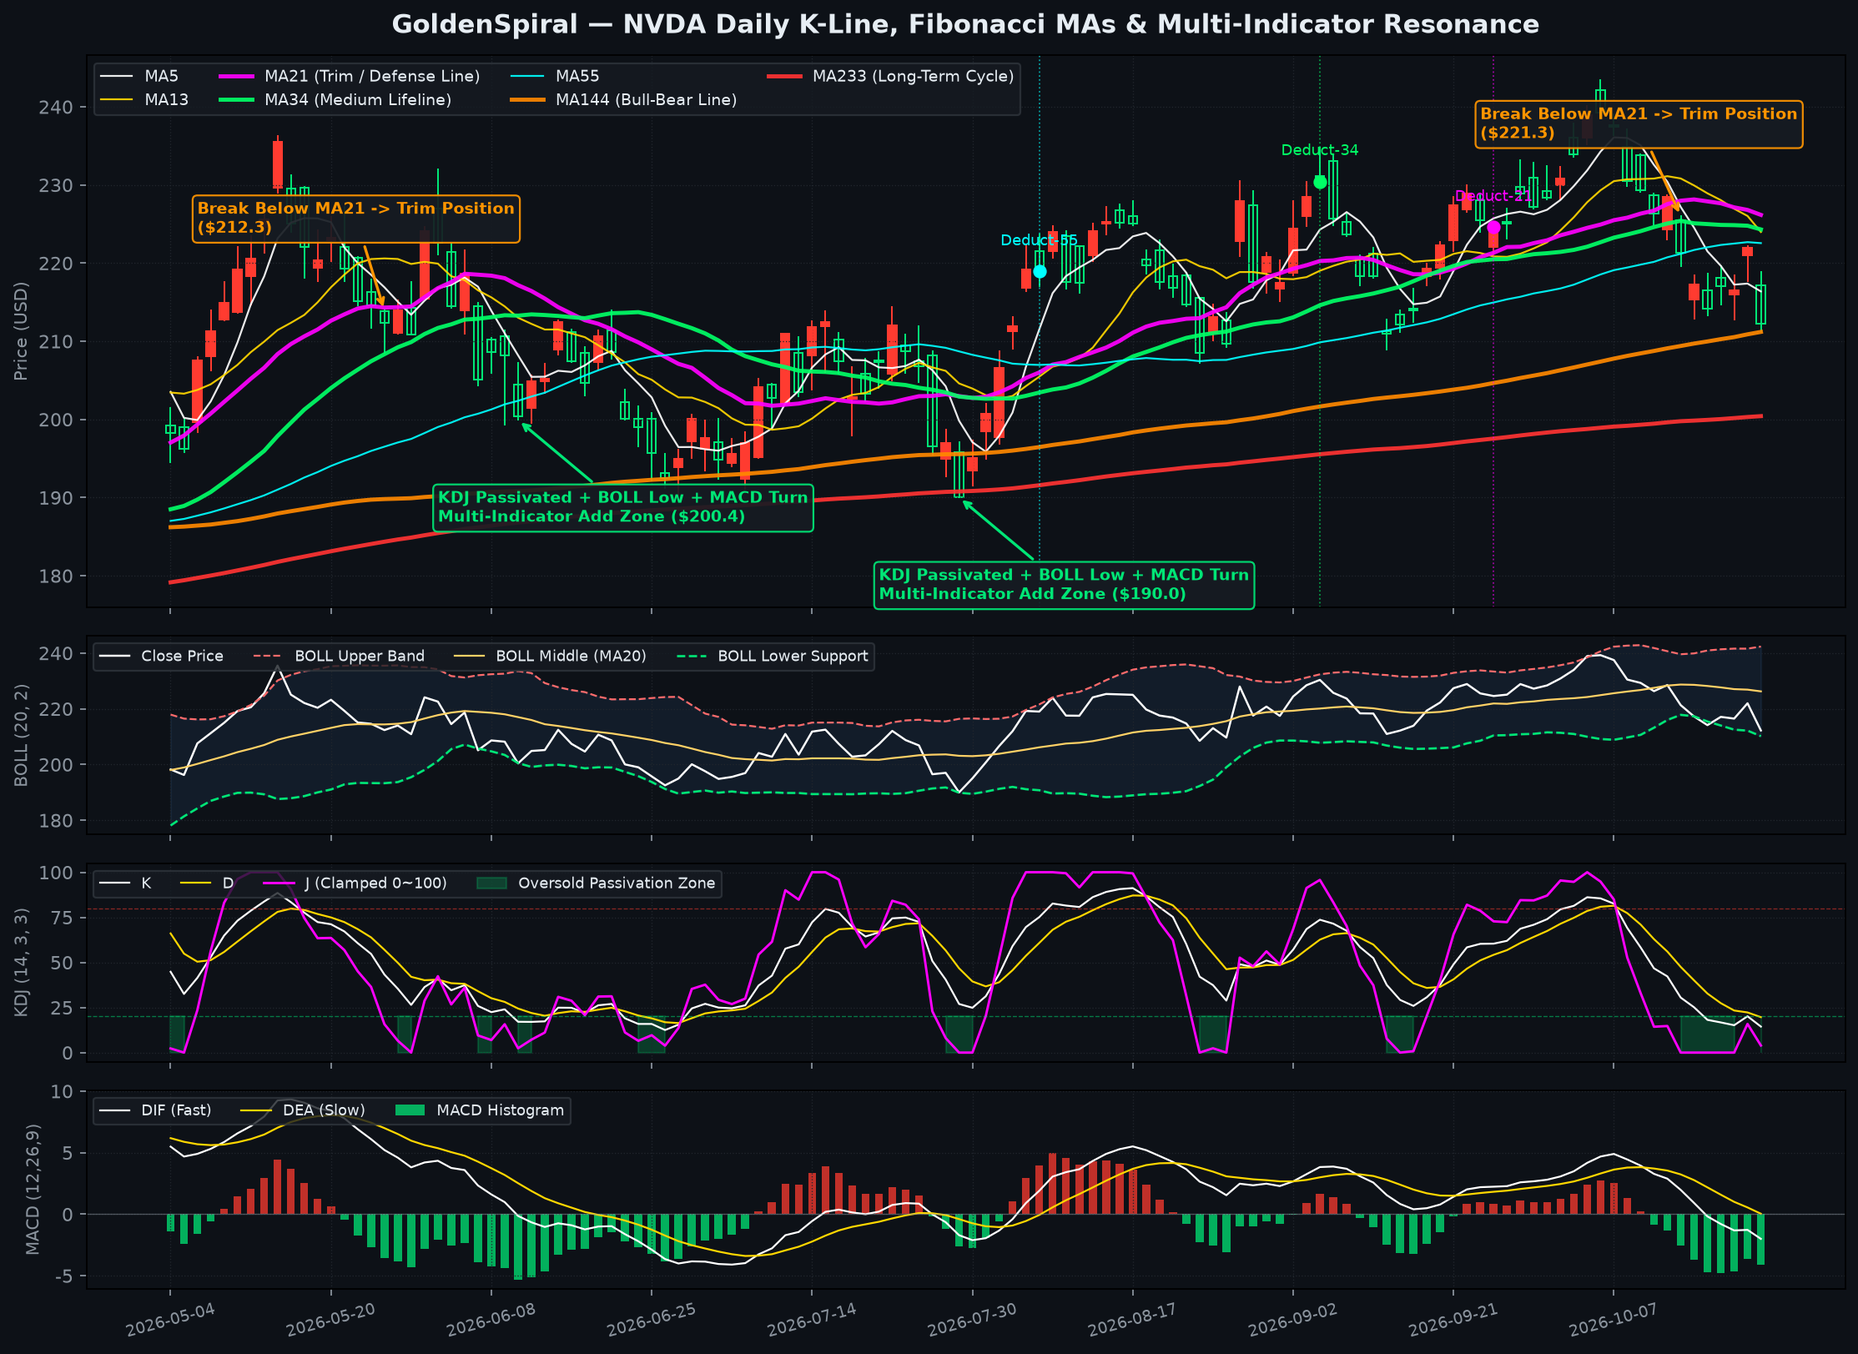
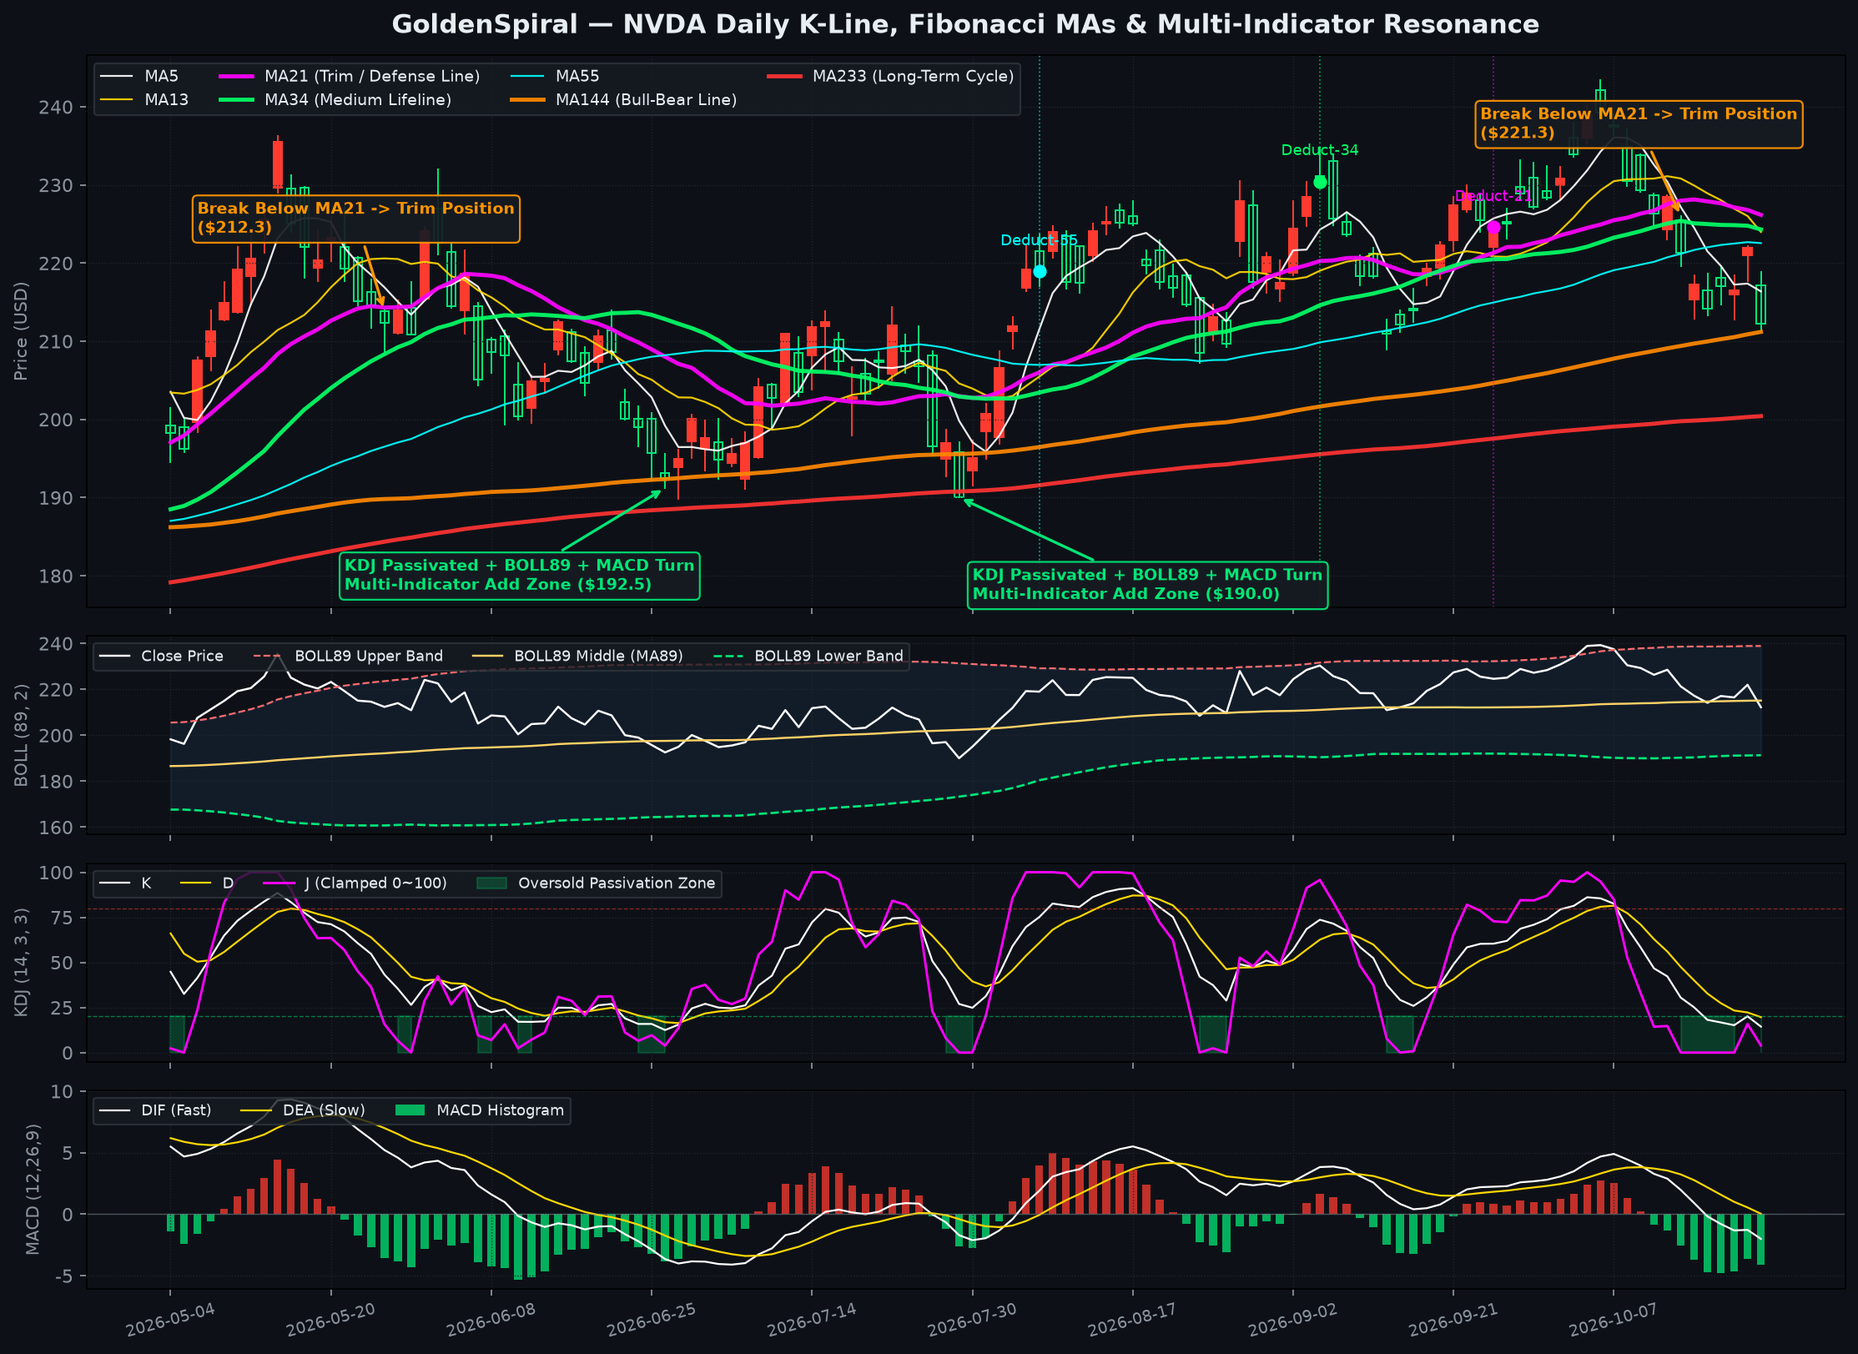
feat: switch daily Bollinger Bands to Fibonacci BOLL(89, 2) across demo, charts, and docs

diff --git a/demo.py b/demo.py
@@ -69,16 +69,16 @@ def load_stock_data(symbol="NVDA", bars=800, lang="en"):
 
 
 def compute_all_indicators(df):
-    """Compute Fibonacci MAs, BOLL(20,2), Passivated KDJ(14,3,3), and MACD(12,26,9)."""
+    """Compute Fibonacci MAs, BOLL(89,2), Passivated KDJ(14,3,3), and MACD(12,26,9)."""
     df = df.copy()
 
     # 1. Fibonacci Moving Averages
     for p in MA_PERIODS:
         df[f'MA{p}'] = df['close'].rolling(window=p, min_periods=1).mean()
 
-    # 2. Bollinger Bands (BOLL 20, 2)
-    df['BOLL_MID'] = df['close'].rolling(window=20, min_periods=1).mean()
-    boll_std = df['close'].rolling(window=20, min_periods=1).std().fillna(0)
+    # 2. Bollinger Bands (BOLL 89, 2)
+    df['BOLL_MID'] = df['close'].rolling(window=89, min_periods=1).mean()
+    boll_std = df['close'].rolling(window=89, min_periods=1).std().fillna(0)
     df['BOLL_UP'] = df['BOLL_MID'] + 2.0 * boll_std
     df['BOLL_LOW'] = df['BOLL_MID'] - 2.0 * boll_std
 
@@ -206,22 +206,23 @@ def plot_showcase_chart(df, deductions, out_path, symbol="NVDA", view_bars=120, 
                 bbox=dict(boxstyle='round,pad=0.3', facecolor='#161b22', edgecolor='#ff9500', alpha=0.92)
             )
 
-    # Dip-Add Signal Callouts (KDJ Passivated + BOLL Lower + MACD Turn)
-    dip_candidates = sub[(sub['J'] <= 5.0) & (sub['low'] <= sub['BOLL_LOW'] * 1.02) & (sub.index > 20)]
+    # Dip-Add Signal Callouts (KDJ Passivated + BOLL89 Support + MACD Turn)
+    dip_candidates = sub[(sub['J'] <= 5.0) & (sub['low'] <= sub['BOLL_MID']) & (sub.index > 30)]
     if not dip_candidates.empty:
         chosen_dips = [dip_candidates.index[0]]
         for idx_d in dip_candidates.index:
-            if idx_d - chosen_dips[-1] > 20:
+            if idx_d - chosen_dips[-1] > 18:
                 chosen_dips.append(idx_d)
-        for idx_d in chosen_dips[:2]:
+        for k_i, idx_d in enumerate(chosen_dips[:2]):
             row_d = sub.loc[idx_d]
-            text_d = (f"KDJ钝化 + 布林下轨 + MACD企稳\n多指标共振加仓 (${row_d['close']:.1f})"
+            text_d = (f"KDJ钝化 + BOLL89支撑 + MACD企稳\n多指标共振加仓 (${row_d['close']:.1f})"
                       if lang == "zh" else
-                      f"KDJ Passivated + BOLL Low + MACD Turn\nMulti-Indicator Add Zone (${row_d['close']:.1f})")
+                      f"KDJ Passivated + BOLL89 + MACD Turn\nMulti-Indicator Add Zone (${row_d['close']:.1f})")
+            x_text_pos = max(2, idx_d - 24) if k_i == 0 else min(len(sub) - 32, idx_d + 1)
             ax_main.annotate(
                 text_d,
                 xy=(idx_d, row_d['low']),
-                xytext=(min(len(sub) - 30, idx_d - 6), row_d['low'] - 13),
+                xytext=(x_text_pos, row_d['low'] - 13),
                 arrowprops=dict(facecolor='#00e676', edgecolor='#00e676', arrowstyle='->', lw=1.5),
                 fontsize=8.5, fontweight='bold', color='#00e676',
                 bbox=dict(boxstyle='round,pad=0.3', facecolor='#161b22', edgecolor='#00e676', alpha=0.92)
@@ -240,19 +241,19 @@ def plot_showcase_chart(df, deductions, out_path, symbol="NVDA", view_bars=120, 
     ax_main.grid(True, color='#21262d', linestyle=':', linewidth=0.6)
     ax_main.tick_params(colors='#8b949e', labelbottom=False)
 
-    # --- Panel 2: BOLL (Bollinger Bands 20, 2) ---
+    # --- Panel 2: BOLL (Bollinger Bands 89, 2) ---
     if lang == "zh":
         ax_boll.plot(sub.index, sub['close'], color='#FFFFFF', linewidth=1.1, label='收盘价')
-        ax_boll.plot(sub.index, sub['BOLL_UP'], color='#ff6b6b', linestyle='--', linewidth=1.0, label='布林上轨 (Upper)')
-        ax_boll.plot(sub.index, sub['BOLL_MID'], color='#ffd166', linewidth=1.0, label='布林中轨 (MA20)')
-        ax_boll.plot(sub.index, sub['BOLL_LOW'], color='#00e676', linestyle='--', linewidth=1.2, label='布林下轨支撑 (Lower)')
-        ax_boll.set_ylabel("BOLL (布林带)", color='#8b949e', fontsize=9)
+        ax_boll.plot(sub.index, sub['BOLL_UP'], color='#ff6b6b', linestyle='--', linewidth=1.0, label='BOLL89 上轨')
+        ax_boll.plot(sub.index, sub['BOLL_MID'], color='#ffd166', linewidth=1.1, label='BOLL89 中轨 (MA89)')
+        ax_boll.plot(sub.index, sub['BOLL_LOW'], color='#00e676', linestyle='--', linewidth=1.2, label='BOLL89 下轨')
+        ax_boll.set_ylabel("BOLL (89, 2)", color='#8b949e', fontsize=9)
     else:
         ax_boll.plot(sub.index, sub['close'], color='#FFFFFF', linewidth=1.1, label='Close Price')
-        ax_boll.plot(sub.index, sub['BOLL_UP'], color='#ff6b6b', linestyle='--', linewidth=1.0, label='BOLL Upper Band')
-        ax_boll.plot(sub.index, sub['BOLL_MID'], color='#ffd166', linewidth=1.0, label='BOLL Middle (MA20)')
-        ax_boll.plot(sub.index, sub['BOLL_LOW'], color='#00e676', linestyle='--', linewidth=1.2, label='BOLL Lower Support')
-        ax_boll.set_ylabel("BOLL (20, 2)", color='#8b949e', fontsize=9)
+        ax_boll.plot(sub.index, sub['BOLL_UP'], color='#ff6b6b', linestyle='--', linewidth=1.0, label='BOLL89 Upper Band')
+        ax_boll.plot(sub.index, sub['BOLL_MID'], color='#ffd166', linewidth=1.1, label='BOLL89 Middle (MA89)')
+        ax_boll.plot(sub.index, sub['BOLL_LOW'], color='#00e676', linestyle='--', linewidth=1.2, label='BOLL89 Lower Band')
+        ax_boll.set_ylabel("BOLL (89, 2)", color='#8b949e', fontsize=9)
 
     ax_boll.fill_between(sub.index, sub['BOLL_LOW'], sub['BOLL_UP'], color='#58a6ff', alpha=0.08)
     ax_boll.legend(loc='upper left', ncol=4, facecolor='#161b22', edgecolor='#30363d', labelcolor='#e6edf3', fontsize=8)
@@ -315,7 +316,7 @@ def print_report(df, deductions, symbol="NVDA", lang="en"):
         print("=" * 74)
         print(f"\n[+] 最新交易日行情 ({latest['date']}):")
         print(f"    收盘价: ${latest['close']:.2f} | MA21(减仓线): ${latest['MA21']:.2f} | MA34(生命线): ${latest['MA34']:.2f}")
-        print(f"    布林下轨: ${latest['BOLL_LOW']:.2f} | KDJ(J值): {latest['J']:.1f} | MACD柱: {latest['MACD']:.2f}")
+        print(f"    BOLL89中轨: ${latest['BOLL_MID']:.2f} | BOLL89下轨: ${latest['BOLL_LOW']:.2f} | KDJ(J值): {latest['J']:.1f} | MACD柱: {latest['MACD']:.2f}")
         print("\n[+] “向右看”抵扣价差分推演表 (ΔMA = (现价 - 抵扣价) / N):")
         print("-" * 74)
         for d in deductions:
@@ -328,7 +329,7 @@ def print_report(df, deductions, symbol="NVDA", lang="en"):
         print("=" * 78)
         print(f"\n[+] Latest Market Bar ({latest['date']}):")
         print(f"    Close: ${latest['close']:.2f} | MA21 (Trim Line): ${latest['MA21']:.2f} | MA34 (Lifeline): ${latest['MA34']:.2f}")
-        print(f"    BOLL Lower: ${latest['BOLL_LOW']:.2f} | KDJ (J): {latest['J']:.1f} | MACD Hist: {latest['MACD']:.2f}")
+        print(f"    BOLL89 Mid: ${latest['BOLL_MID']:.2f} | BOLL89 Lower: ${latest['BOLL_LOW']:.2f} | KDJ (J): {latest['J']:.1f} | MACD Hist: {latest['MACD']:.2f}")
         print("\n[+] Lookahead Differential Deduction Table (ΔMA = (Close - Deduct) / N):")
         print("-" * 78)
         for d in deductions:

diff --git a/README.md b/README.md
@@ -9,7 +9,7 @@
 # GoldenSpiral — Fibonacci MA & Multi-Indicator Resonance Demo
 
 > **Public Showcase Edition**  
-> This repository is a lightweight public showcase of the **GoldenSpiral AI Agent Skill**. It demonstrates the core **Fibonacci Moving Average Matrix**, **Lookahead Differential Deduction**, and **Multi-Indicator Resonance (`BOLL` + `KDJ` + `MACD`)** using **NVIDIA (`NVDA`)** Daily K-lines as a case study. Proprietary intraday order-book rules and full course materials are maintained in a separate private repository.
+> This repository is a lightweight public showcase of the **GoldenSpiral AI Agent Skill**. It demonstrates the core **Fibonacci Moving Average Matrix**, **Lookahead Differential Deduction**, and **Multi-Indicator Resonance (`BOLL89` + `KDJ` + `MACD`)** using **NVIDIA (`NVDA`)** Daily K-lines as a case study. Proprietary intraday order-book rules and full course materials are maintained in a separate private repository.
 
 ---
 
@@ -23,12 +23,12 @@
    - During an uptrend, **`MA21` (bold magenta)** serves as the short-to-medium wave defense line.
    - When `NVDA` closes decisively below `MA21` (for example, at **`\$212.3`** in late May or **`\$221.3`** in mid-October) and short-term moving averages turn downward under high deduction-price pressure, **trim or reduce positions** to lock in gains and guard against deeper pullbacks.
 
-2. **🟢 When to Add Position (`KDJ Passivation + BOLL Lower + MACD Turn`)**
+2. **🟢 When to Add Position (`KDJ Passivated + BOLL89 + MACD Turn`)**
    - Instead of guessing the bottom with a single indicator, wait for **multi-indicator resonance** near major Fibonacci moving averages (`MA144` / `MA233`):
      1. **KDJ Oversold Passivation**: The `J` line flattens near `0` (clamped inside `[0, 100]`) within the green shaded oversold zone (`<= 10`), signaling that short-term selling pressure is exhausted.
-     2. **Bollinger Band Support (`BOLL`)**: Price touches or briefly pierces the **BOLL Lower Band** and stabilizes.
+     2. **89-Period Bollinger Band Support (`BOLL 89, 2`)**: Price pulls back into the **`BOLL89` middle-to-lower support zone (`MA89` / Lower Band)** and stabilizes.
      3. **MACD Momentum Recovery**: Bearish green histogram bars stop expanding and start shrinking, or `DIF` turns upward toward `DEA`.
-   - As shown on the chart at **`\$200.4`** (early June) and **`\$190.0`** (late July), this triple-indicator alignment right above the rising `MA144/233` bull-bear lines marks a high-probability zone to add positions.
+   - As shown on the chart at **`\$192.5`** (late June) and **`\$190.0`** (late July), this triple-indicator alignment right above the rising `MA144/233` bull-bear lines marks a high-probability zone to add positions.
 
 ---
 
@@ -91,7 +91,7 @@ python3 demo.py AAPL --lang en
 
 [+] Latest Market Bar (2026-10-22):
     Close: $212.21 | MA21 (Trim Line): $226.17 | MA34 (Lifeline): $224.30
-    BOLL Lower: $210.16 | KDJ (J): 3.9 | MACD Hist: -4.08
+    BOLL89 Mid: $215.09 | BOLL89 Lower: $191.31 | KDJ (J): 3.9 | MACD Hist: -4.08
 
 [+] Lookahead Differential Deduction Table (ΔMA = (Close - Deduct) / N):
 ------------------------------------------------------------------------------
@@ -115,7 +115,7 @@ This repository is for educational, quantitative visualization, and AI Agent Ski
 # GoldenSpiral (黄金螺旋) — 斐波那契均线簇与多指标共振公开演示版
 
 > **公开演示版说明**  
-> 本仓库是 **GoldenSpiral AI Agent Skill** 的公开概念演示版本。以 **英伟达 (`NVDA`)** 日 K 线为例，展示**斐波那契均线簇**、**“向右看”抵扣价差分推演**以及 **底部多指标共振（`BOLL` + `KDJ` + `MACD`）** 的可视化分析逻辑。完整的盘口微观规则与内部资料保存在私有库中，不对外公开。
+> 本仓库是 **GoldenSpiral AI Agent Skill** 的公开概念演示版本。以 **英伟达 (`NVDA`)** 日 K 线为例，展示**斐波那契均线簇**、**“向右看”抵扣价差分推演**以及 **底部多指标共振（`BOLL89` + `KDJ` + `MACD`）** 的可视化分析逻辑。完整的盘口微观规则与内部资料保存在私有库中，不对外公开。
 
 ---
 
@@ -129,12 +129,12 @@ This repository is for educational, quantitative visualization, and AI Agent Ski
    - 在上升趋势波段中，**`MA21`（21日均线，紫色加粗）** 是短中线波段的减仓防守线。
    - 当英伟达日 K 线有效跌破 `MA21`（如图中 5 月下旬跌破 **`\$212.3`** 或 10 月中旬跌破 **`\$221.3`**），且短期抵扣价处于历史高位形成压制时，应当**先行减仓防守**，锁定波段利润并规避后续回调。
 
-2. **🟢 何时加仓低吸（`KDJ钝化 + 布林下轨 + MACD企稳 -> 多指标共振加仓`）**
+2. **🟢 何时加仓低吸（`KDJ钝化 + BOLL89支撑 + MACD企稳 -> 多指标共振加仓`）**
    - 回调过程中不靠主观猜底，而是等待股价回踩大周期牛熊线（`MA144` / `MA233`）附近时出现**三重指标共振**：
      1. **KDJ 底部钝化**：`J` 值打穿极值并在 `0` 附近连续走平钝化（图中绿色阴影区 `J <= 10`），代表短线抛压已极致宣泄；
-     2. **布林带下轨支撑（`BOLL`）**：股价触及或瞬间刺穿**布林下轨**后收脚企稳；
+     2. **89周期斐波那契布林带支撑（`BOLL 89, 2`）**：股价回踩至 **`BOLL89` 中下轨支撑带（`MA89` 中轨至下轨区间）** 并收脚企稳；
      3. **MACD 动能转强**：底部绿柱不再放大并开始缩短（空头动能衰竭）或快慢线拐头收敛。
-   - 如图中 6 月上旬 **`\$200.4`** 与 7 月底 **`\$190.0`** 两个位置，均在大均线托底背景下触发三指标共振，构成高胜率的波段加仓区。
+   - 如图中 6 月下旬 **`\$192.5`** 与 7 月底 **`\$190.0`** 两个位置，均在大均线托底背景下触发三指标共振，构成高胜率的波段加仓区。
 
 ---
 
@@ -194,7 +194,7 @@ python3 demo.py NVDA --lang en
 
 [+] 最新交易日行情 (2026-10-22):
     收盘价: $212.21 | MA21(减仓线): $226.17 | MA34(生命线): $224.30
-    布林下轨: $210.16 | KDJ(J值): 3.9 | MACD柱: -4.08
+    BOLL89中轨: $215.09 | BOLL89下轨: $191.31 | KDJ(J值): 3.9 | MACD柱: -4.08
 
 [+] “向右看”抵扣价差分推演表 (ΔMA = (现价 - 抵扣价) / N):
 --------------------------------------------------------------------------

diff --git a/README_ZH.md b/README_ZH.md
@@ -9,7 +9,7 @@
 # GoldenSpiral (黄金螺旋) — 斐波那契均线簇与多指标共振公开演示版
 
 > **公开演示版说明**  
-> 本仓库是 **GoldenSpiral AI Agent Skill** 的公开概念演示版本。以 **英伟达 (`NVDA`)** 日 K 线为例，展示**斐波那契均线簇**、**“向右看”抵扣价差分推演**以及 **底部多指标共振（`BOLL` + `KDJ` + `MACD`）** 的可视化分析逻辑。完整的盘口微观规则与内部资料保存在私有库中，不对外公开。
+> 本仓库是 **GoldenSpiral AI Agent Skill** 的公开概念演示版本。以 **英伟达 (`NVDA`)** 日 K 线为例，展示**斐波那契均线簇**、**“向右看”抵扣价差分推演**以及 **底部多指标共振（`BOLL89` + `KDJ` + `MACD`）** 的可视化分析逻辑。完整的盘口微观规则与内部资料保存在私有库中，不对外公开。
 
 ---
 
@@ -23,12 +23,12 @@
    - 在上升趋势波段中，**`MA21`（21日均线，紫色加粗）** 是短中线波段的减仓防守线。
    - 当英伟达日 K 线有效跌破 `MA21`（如图中 5 月下旬跌破 **`\$212.3`** 或 10 月中旬跌破 **`\$221.3`**），且短期抵扣价处于历史高位形成压制时，应当**先行减仓防守**，锁定波段利润并规避后续回调。
 
-2. **🟢 何时加仓低吸（`KDJ钝化 + 布林下轨 + MACD企稳 -> 多指标共振加仓`）**
+2. **🟢 何时加仓低吸（`KDJ钝化 + BOLL89支撑 + MACD企稳 -> 多指标共振加仓`）**
    - 回调过程中不靠主观猜底，而是等待股价回踩大周期牛熊线（`MA144` / `MA233`）附近时出现**三重指标共振**：
      1. **KDJ 底部钝化**：`J` 值打穿极值并在 `0` 附近连续走平钝化（图中绿色阴影区 `J <= 10`），代表短线抛压已极致宣泄；
-     2. **布林带下轨支撑（`BOLL`）**：股价触及或瞬间刺穿**布林下轨**后收脚企稳；
+     2. **89周期斐波那契布林带支撑（`BOLL 89, 2`）**：股价回踩至 **`BOLL89` 中下轨支撑带（`MA89` 中轨至下轨区间）** 并收脚企稳；
      3. **MACD 动能转强**：底部绿柱不再放大并开始缩短（空头动能衰竭）或快慢线拐头收敛。
-   - 如图中 6 月上旬 **`\$200.4`** 与 7 月底 **`\$190.0`** 两个位置，均在大均线托底背景下触发三指标共振，构成高胜率的波段加仓区。
+   - 如图中 6 月下旬 **`\$192.5`** 与 7 月底 **`\$190.0`** 两个位置，均在大均线托底背景下触发三指标共振，构成高胜率的波段加仓区。
 
 ---
 

diff --git a/SKILL.md b/SKILL.md
@@ -18,8 +18,8 @@ description: Public showcase of the GoldenSpiral trading analysis skill. Demonst
 2. **Lookahead Differential Deduction**
    - $\Delta \text{MA}(N) = (C_t - C_{t-N}) / N$. Compare current closing price $C_t$ with the historical deduction price $C_{t-N}$ to anticipate moving average inflection points before crossovers occur.
 
-3. **Multi-Indicator Dip-Adding Resonance (`BOLL` + `KDJ` + `MACD`)**
-   - When price pulls back to major support (`MA144/233` or the **BOLL Lower Band**), **KDJ enters oversold passivation** (`J <= 10`, clamped to `[0, 100]`), and **MACD bearish momentum shrinks or turns upward**, it signals a high-probability zone to add positions.
+3. **Multi-Indicator Dip-Adding Resonance (`BOLL89` + `KDJ` + `MACD`)**
+   - When price pulls back to major support (`MA144/233` and the **89-period Bollinger Band `BOLL(89, 2)` support zone**), **KDJ enters oversold passivation** (`J <= 10`, clamped to `[0, 100]`), and **MACD bearish momentum shrinks or turns upward**, it signals a high-probability zone to add positions.
 
 ## Execution
 - `python3 demo.py NVDA --lang en` — Generates the 4-panel English showcase chart (`samples/nvda_demo_en.png`) and lookahead deduction table.
@@ -42,8 +42,8 @@ description: Public showcase of the GoldenSpiral trading analysis skill. Demonst
 2. **“向右看”抵扣价差分推演**
    - $\Delta \text{MA}(N) = (C_t - C_{t-N}) / N$。通过对比当前收盘价 $C_t$ 与 $N$ 日前抵扣价 $C_{t-N}$，提前预判均线助涨或压制拐点。
 
-3. **多指标共振加仓 (`BOLL` + `KDJ` + `MACD`)**
-   - 当股价回踩大均线（`MA144/233`）或触及**布林下轨（BOLL Lower）**企稳，同时 **KDJ 进入底部钝化区**（`J <= 10`，极值截断于 `[0, 100]`），且 **MACD 绿柱缩短或快慢线拐头**时，构成高胜率波段加仓区。
+3. **多指标共振加仓 (`BOLL89` + `KDJ` + `MACD`)**
+   - 当股价回踩大均线（`MA144/233`）并进入 **89周期布林带 `BOLL(89, 2)` 支撑带**企稳，同时 **KDJ 进入底部钝化区**（`J <= 10`，极值截断于 `[0, 100]`），且 **MACD 绿柱缩短或快慢线拐头**时，构成高胜率波段加仓区。
 
 ## 运行命令
 - `python3 demo.py NVDA --lang zh` — 生成纯中文四宫格演示图表（`samples/nvda_demo_zh.png`）与中文抵扣价推演表。
